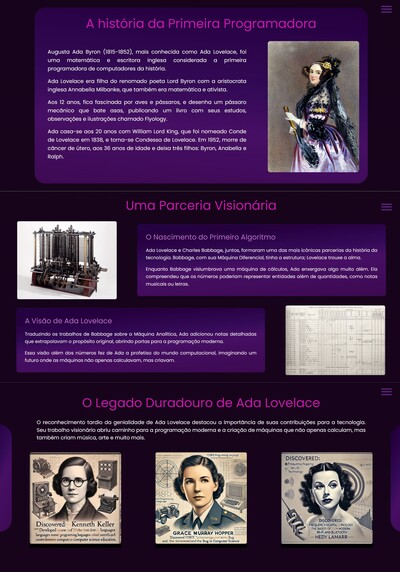
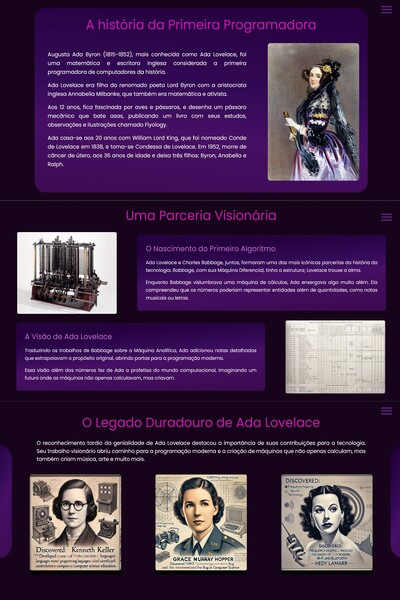
ajuste img card
Ajuste da imagem do card e modal

diff --git a/app/assets/stylesheets/home/projects.scss b/app/assets/stylesheets/home/projects.scss
@@ -117,13 +117,9 @@
     }
 }
 
-.image-modal {
-    background-repeat: no-repeat;
-    background-position: center;
-    background-size: cover;
-    border-radius: 10px !important;
-    padding: 5px;
-    box-sizing: border-box;
+.img-modal {
+    border-radius: 10px;
+    padding: 1px 0 2px 3px;
 }
 
 .card-modal {
